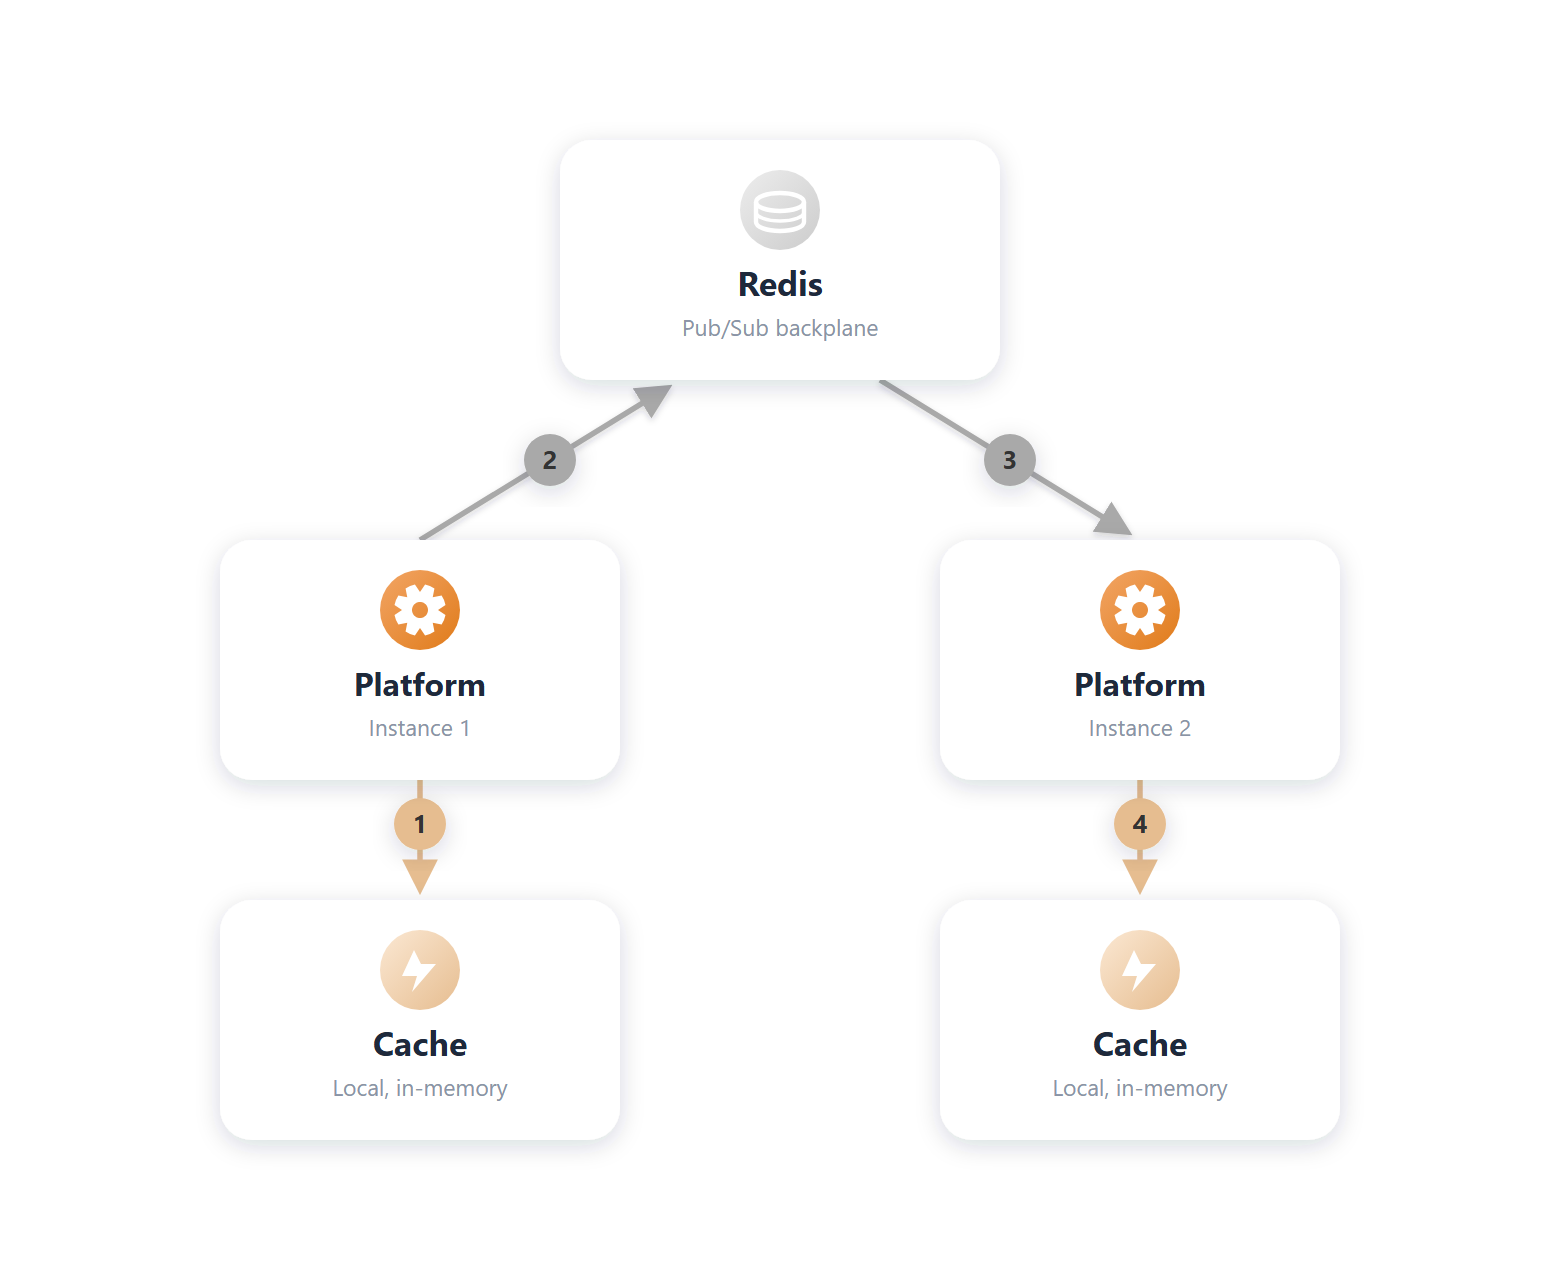
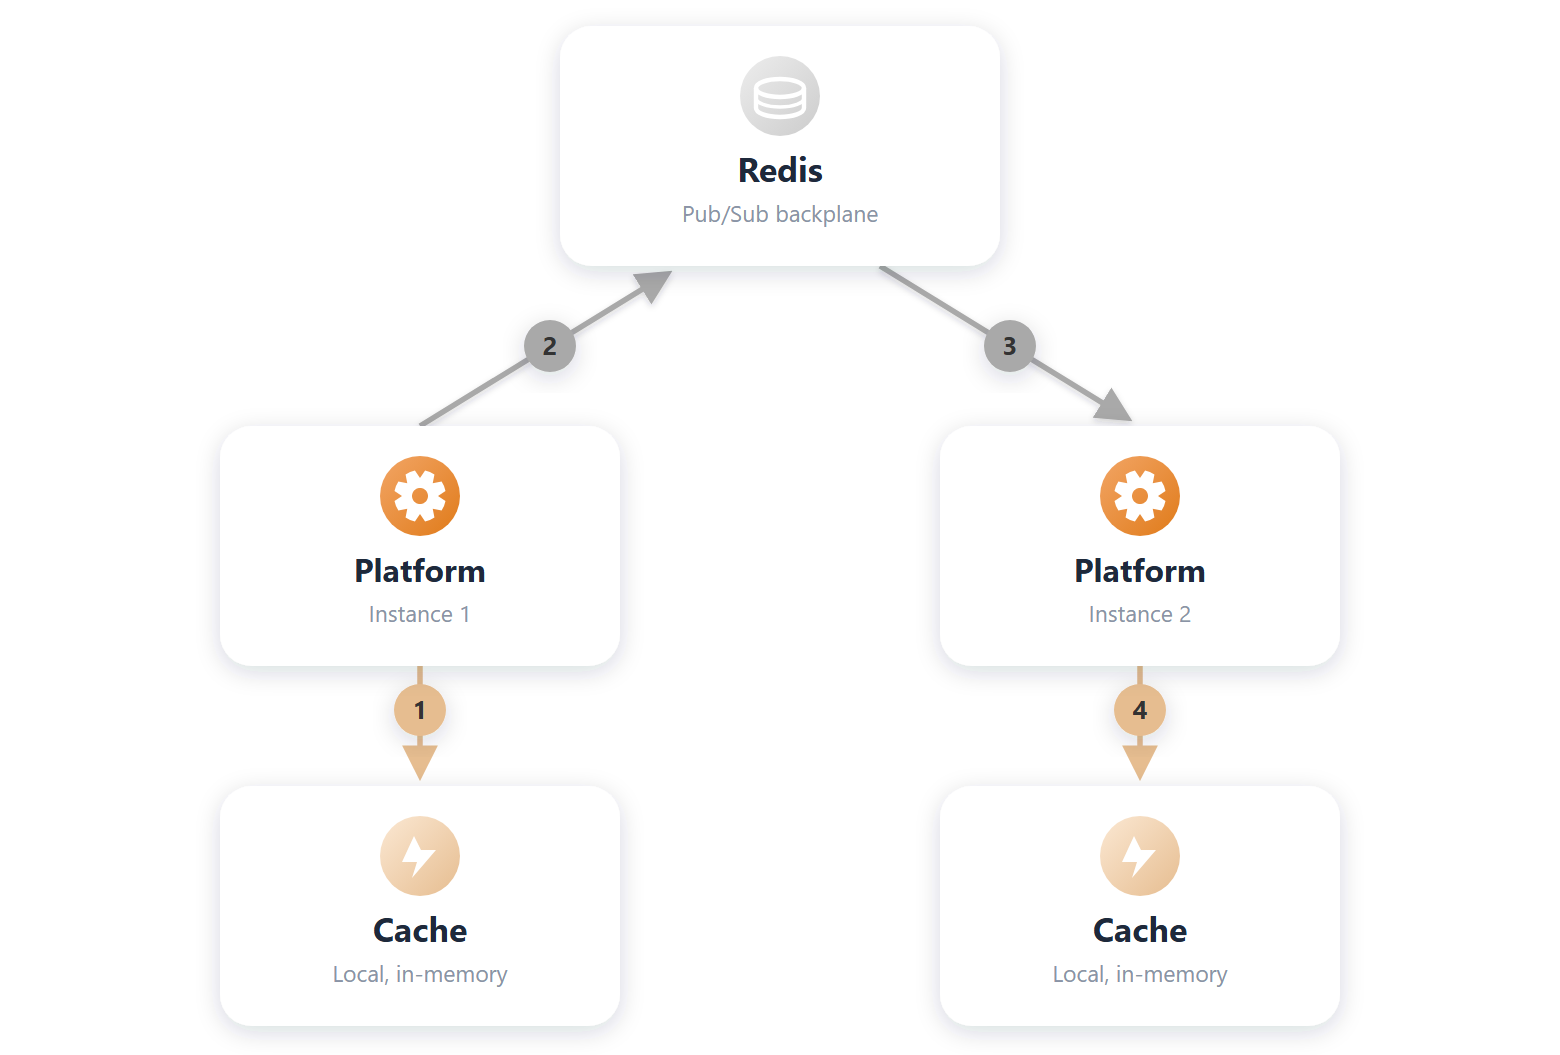
Minor corrections

Changed region(s): [[0.1538, 0.0303, 0.8308, 0.9403]]

diff --git a/platform/developer-guide/docs/Fundamentals/Caching/03-setting-up-Redis.md b/platform/developer-guide/docs/Fundamentals/Caching/03-setting-up-Redis.md
@@ -2,7 +2,7 @@
 
 Running multiple instances of your application, all accessing the same distributed cache, can be challenging: the instances should find out when the data was changed and the local cache data becomes irrelevant.  One way to solve this problem is by connecting all application instances to a service that sends messages whenever cache data becomes invalid. Redis, an in-memory key-value storage, supports a messaging system with the publish/subscribe (Pub/Sub) model as follows:
 
-![Multi-level caching](media/02-multi-level-caching.png){: style="display: block; margin: 0 auto;" }
+![Multi-level caching](media/02-multi-level-caching.png){: style="display: block; margin: 0 auto;" width="750"}
 
 1. One Platform instance evicts some data from cache.
 1. The message for this event is sent to the backplane. 

diff --git a/platform/developer-guide/docs/Fundamentals/Caching/01-overview.md b/platform/developer-guide/docs/Fundamentals/Caching/01-overview.md
@@ -12,7 +12,7 @@ The pattern enables applications to load data on demand:
 1. If the data is not in the cache, we get it from the source. 
 1. Then the data is added to the cache. Next time, this data will be returned from the cache.
 
-![Cache Aside pattern chart](media/01-cache-aside-pattern.png){: style="display: block; margin: 0 auto;" }
+![Cache Aside pattern chart](media/01-cache-aside-pattern.png){: style="display: block; margin: 0 auto;" width="600"}
 
 This pattern improves performance and also helps maintain consistency between the data held in the cache and data in the underlying storage.
 
